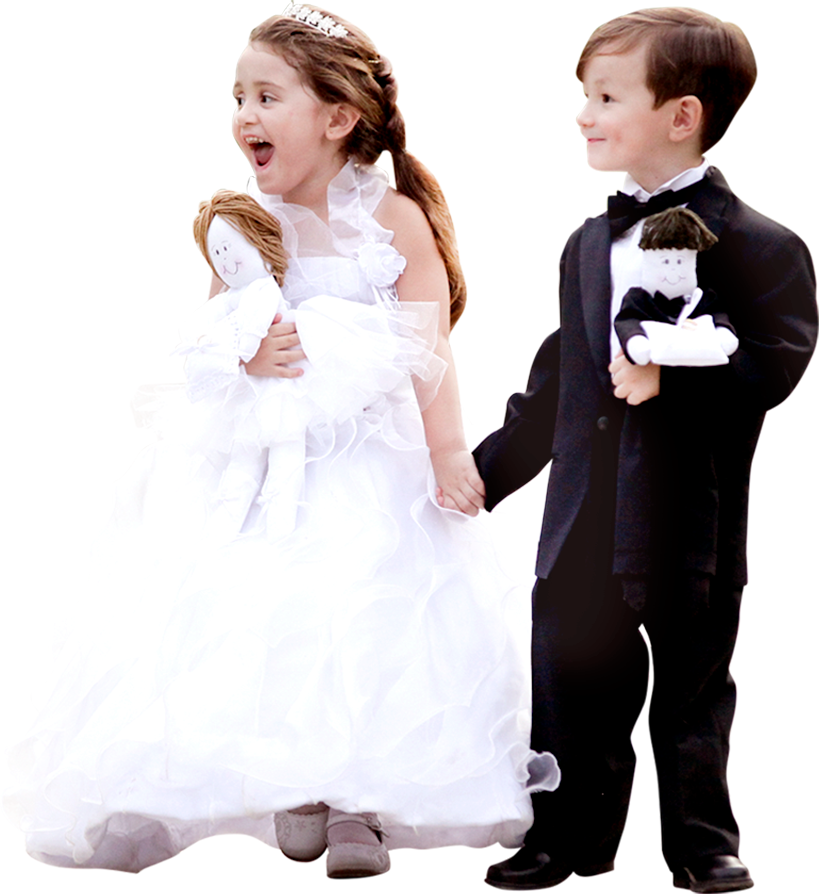
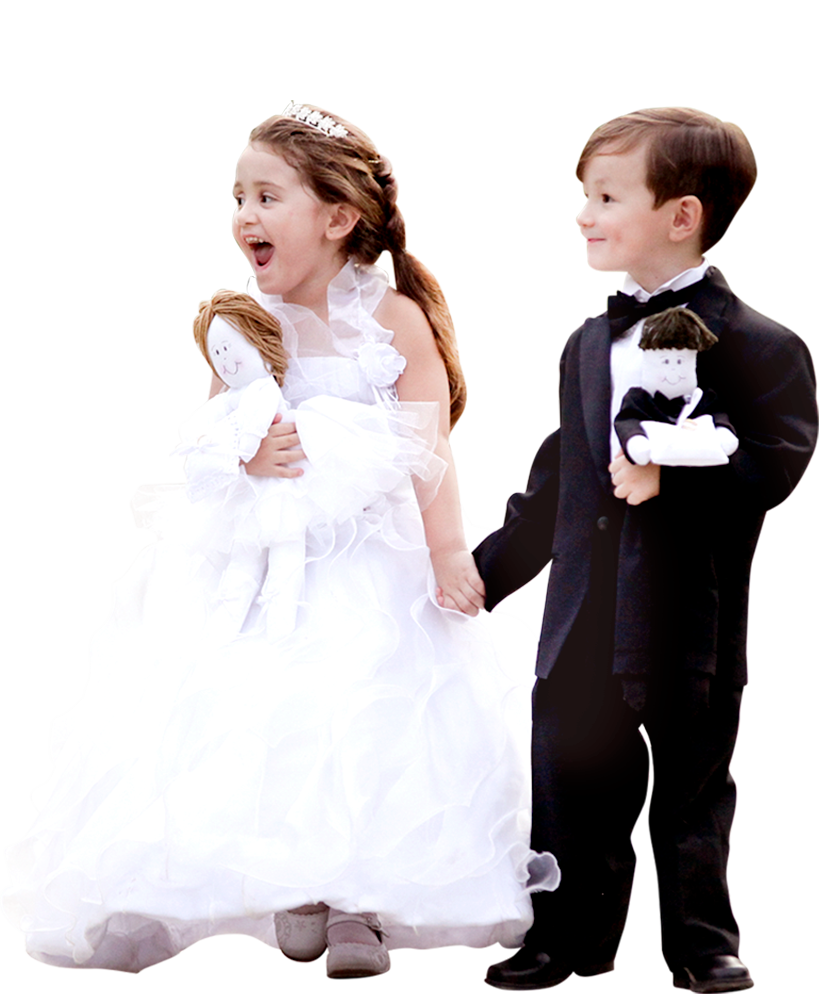
no message

diff --git a/index.html b/index.html
@@ -49,7 +49,7 @@
                                 <div class="col-md-9">
                                     <div class='col-md-7'>
                                         
-                                        <img id="home-img-principal" class="to-animate-3" alt="Bootstrap Image Preview" src="img/noiva-topo.png">
+                                        <img id="home-img-principal" class="to-animate-3" alt="noiva" src="img/noiva-topo.png">
                                     </div>
                                     <div class='col-md-5'>
                                         <nav class="navbar navbar-default">
@@ -409,7 +409,6 @@
                             </div>
                             </div>
                             <div class="col-md-7 to-animate">
-                                <div> </div>
                                 <img id="inf-damaepagem-img" class="img-responsive" alt="Daminha e pajem" src="img/pajens-damas/dama-pajem.png">
                             </div>
                             

diff --git a/js/main.js b/js/main.js
@@ -134,6 +134,13 @@
         {
             $('nav').show();
         }
+        if (windowWidth <= 1220){
+            $marginLeft=$('#home-img-principal').css('margin-left');
+            $('#home-img-principal').css({
+                'margin-left': (1190 - windowWidth)+"px"
+            });
+        }
+        
         jQuery.each($('.borda'),function(){ 
             if (windowWidth >= 992){
                 $(this).removeClass('col-md-2');

diff --git a/css/style.css b/css/style.css
@@ -853,7 +853,7 @@ anm-cont2{
     font-size: 25px;
 }
 #inf-damaepagem-img{
-    margin-bottom: -10px;  
+    margin-bottom: -10px;
 }
 #inf-enf-cont1{
     position: absolute;
